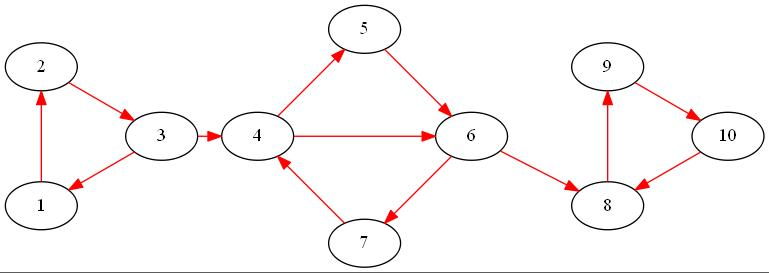
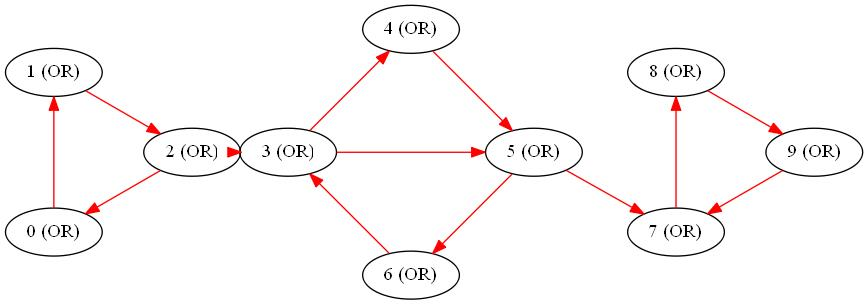
ajout de quelques classes, preparation du magique week end de taf

diff --git a/initRecherche/src/graph/Main.java b/initRecherche/src/graph/Main.java
@@ -14,28 +14,49 @@ public class Main {
 	private Graph graph;
 
 	public Main() throws IOException {
-		String nom = "graphDroso" ;
+		String nom = "graph1" ;
 		lireFichier(nom);
 		construireGraph();
-		
 		graph.writeDot("dot1.txt", false, null);
 		Runtime.getRuntime().exec("circo -Tjpg -o "+nom+".jpg dot1.txt");
 		
-		Graph trans = graph.transition(); 
-		
+		/********** TRANSITION **********/
+		/*Graph trans = graph.transition(); 
 		trans.writeDot("dotTrans.txt", false, null);
-		Runtime.getRuntime().exec("sfdp -Tjpg -o "+nom+"Transition.jpg dotTrans.txt");
+		Runtime.getRuntime().exec("dot -Tjpg -o "+nom+"Transition.jpg dotTrans.txt");*/
 		
-		/*ArrayList<ArrayList<Integer>> coupe = graph.minCut();
+		/*******************  COUPE ******************/
+		ArrayList<ArrayList<Integer>> coupe = graph.minCut();
 		while(!graph.coupeValide(coupe)) coupe = graph.minCut() ;
 		System.out.println(coupe);
 		graph.writeDot("dot2.txt", false, coupe);
 		Runtime.getRuntime().exec("dot -Tjpg -o "+nom+"Cut.jpg dot2.txt");
-
-		ArrayList<Integer> todo = new ArrayList<Integer>();
-		for (int i = 1; i < nb_noeud+1; i++)
-			todo.add(new Integer(i));
 		
+		/**************** TRANS OUVERT ***************/
+		GrapheOuvert ouvert1 = new GrapheOuvert(graph.V) ;
+		GrapheOuvert ouvert2 = new GrapheOuvert(graph.V) ;
+		// faut setter l'emetteur et add les sommets frontiere
+		for(Integer i : coupe.get(0))
+			for(Edge e : graph.adj(i))
+				ouvert1.addEdge(e);
+		for(Integer i : coupe.get(1))
+			for(Edge e : graph.adj(i))
+				ouvert2.addEdge(e);
+		ouvert1.writeDot("dotOuv1.txt", false, null);
+		Runtime.getRuntime().exec("dot -Tjpg -o "+nom+"Ouvert1.jpg dotOuv1.txt");
+		ouvert2.writeDot("dotOuv2.txt", false, null);
+		Runtime.getRuntime().exec("dot -Tjpg -o "+nom+"Ouvert2.jpg dotOuv2.txt");
+
+		GraphTransOuvert transAlpes = ouvert1.transitionOuverte() ;
+		GraphTransOuvert transAtlantique = ouvert2.transitionOuverte() ;
+		transAlpes.simplification() ;
+		transAtlantique.simplification() ;
+		/********************   LE SEUL BUT DE TA VIE  **********************/
+		Graph RESULTAT_FINAL = ouvert1.papillon(ouvert2) ;
+		
+		/**************** SCC ***************/
+		/*ArrayList<Integer> todo = new ArrayList<Integer>();
+		for (int i = 1; i < nb_noeud+1; i++) todo.add(new Integer(i));
 		graph.writeDot("dot3.txt", false, graph.SCC());
 		Runtime.getRuntime().exec("dot -Tjpg -o "+nom+"SCC.jpg dot3.txt");*/
 

diff --git a/initRecherche/src/graph/Graph.java b/initRecherche/src/graph/Graph.java
@@ -153,7 +153,7 @@ public class Graph {
 
 	public ArrayList<ArrayList<Integer>> minCut() {
 		HashMap<Integer, ArrayList<Integer>> coupe = new HashMap<Integer, ArrayList<Integer>>();
-		for (int i = 1; i < V; i++) {
+		for (int i = 0; i < V; i++) {
 			ArrayList<Integer> l = new ArrayList<Integer>();
 			l.add(i);
 			coupe.put(i, l);
@@ -161,7 +161,7 @@ public class Graph {
 
 		Graph copy = new Graph(adj, V, E);
 
-		int cnt = copy.V - 1;
+		int cnt = copy.V ;
 		while (cnt > 2) {
 			cnt--;
 			ArrayList<Edge> arete = (ArrayList<Edge>) copy.edges();
@@ -176,14 +176,13 @@ public class Graph {
 	// Algo de Karger
 	public void contraction(Edge edge, HashMap<Integer, ArrayList<Integer>> coupe) {
 
-		for (Integer i : coupe.get(edge.to.num)) {
+		for (Integer i : coupe.get(edge.to.num))
 			coupe.get(edge.from.num).add(i);
-		}
 		coupe.remove(edge.to.num);
 		Integer suppr = edge.to.num;
 		ArrayList<Edge> ad = new ArrayList<Edge>(adj(suppr));
 		for (Edge e : ad) {
-			// if (e.to.num != edge.to.num || e.from.num != edge.from.num) {
+			//if (e.to.num != edge.to.num || e.from.num != edge.from.num) {
 			if (!e.equals(edge)) {
 				if (e.to.num == suppr) {
 					if (e.from.num != edge.from.num) {

diff --git a/initRecherche/src/graph/GrapheOuvert.java b/initRecherche/src/graph/GrapheOuvert.java
@@ -1,0 +1,38 @@
+package graph;
+
+import java.util.ArrayList;
+
+
+public class GrapheOuvert extends Graph{
+	
+	private ArrayList<Integer> frontiere ;
+	private int emetteur ;
+	
+	public GrapheOuvert(int N) {
+		super(N);
+		frontiere = new ArrayList<Integer>() ;
+	}
+
+	public void addSommetFrontiere(int i){
+		frontiere.add(i) ;
+	}
+	
+	public void setEmetteur(int emetteur) {
+		this.emetteur = emetteur;
+	}
+	
+	/**     A REMPLIR SUR LE MODELE DE TRANSITION  !! **/
+	public GraphTransOuvert transitionOuverte() {
+		try {
+			throw new Exception("mange ma") ;
+		} catch (Exception e) {
+			e.printStackTrace();
+		}
+		return null ;
+	}
+
+	public Graph papillon(GrapheOuvert ouvert2) {
+		// TODO Auto-generated method stub
+		return null;
+	}
+}

diff --git a/initRecherche/src/graph/GraphTransOuvert.java b/initRecherche/src/graph/GraphTransOuvert.java
@@ -1,0 +1,10 @@
+package graph;
+
+public class GraphTransOuvert {
+
+	public void simplification() {
+		// TODO Auto-generated method stub
+		// UTILISER SCC
+	}
+
+}
